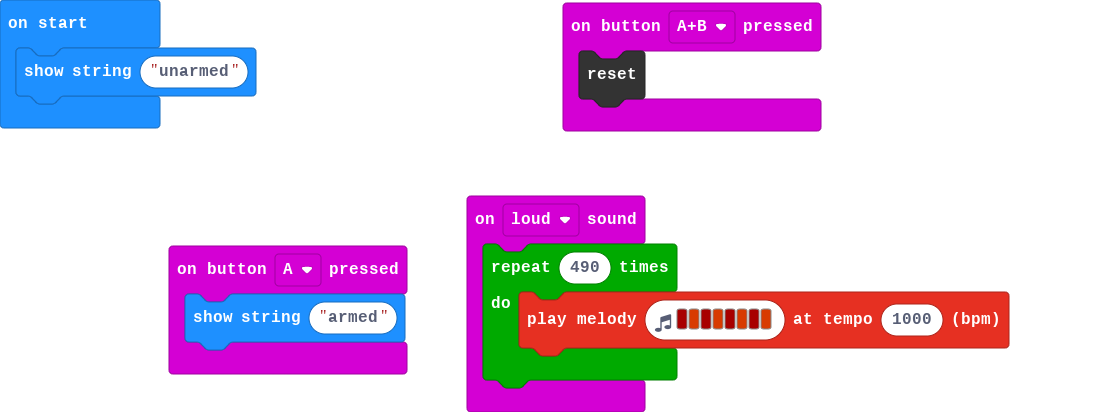
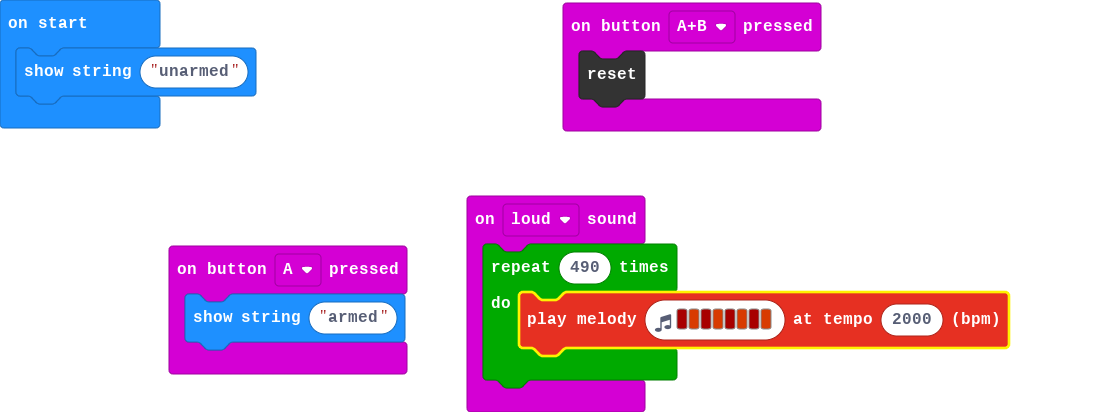
Update main.blocks, main.ts

Changed region(s): [[0.4582, 0.699, 0.9164, 0.8738], [0.7942, 0.7573, 0.8248, 0.7864]]

diff --git a/main.ts b/main.ts
@@ -3,7 +3,7 @@ input.onButtonPressed(Button.A, function () {
 })
 input.onSound(DetectedSound.Loud, function () {
     for (let index = 0; index < 490; index++) {
-        music.playMelody("C5 B C5 B C5 B C5 B ", 1000)
+        music.playMelody("C5 B C5 B C5 B C5 B ", 2000)
     }
 })
 input.onButtonPressed(Button.AB, function () {
